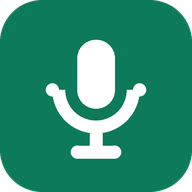
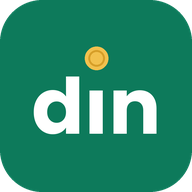
Add files via upload

Changed region(s): [[0.1562, 0.1875, 0.8438, 0.8438]]

diff --git a/index.html b/index.html
@@ -3,8 +3,8 @@
 <head>
 <meta charset="utf-8">
 <meta name="viewport" content="width=device-width,initial-scale=1,viewport-fit=cover">
-<title>Caderneta</title>
-<meta name="description" content="Controle de gastos com lançamento por voz.">
+<title>Din</title>
+<meta name="description" content="Din: controle de gastos com lançamento por voz.">
 <meta name="theme-color" content="#F5F6F4" media="(prefers-color-scheme: light)">
 <meta name="theme-color" content="#0C0F0D" media="(prefers-color-scheme: dark)">
 <link rel="manifest" href="manifest.json">
@@ -1347,7 +1347,7 @@ function renderAjustes(){
     <label class="field"><span class="label">Tipo de renda</span><select id="modoSel"><option value="">Descobrir sozinho</option><option value="fixo" ${C.modo==="fixo"?"selected":""}>Salário fixo</option><option value="dia" ${C.modo==="dia"?"selected":""}>Ganho por dia (Uber, entregas, bicos)</option><option value="ambos" ${C.modo==="ambos"?"selected":""}>Os dois</option></select></label>
     <label class="field"><span class="label">Dias de trabalho por semana (para a meta diária)</span><select id="diasSemana">${[3,4,5,6,7].map(n=>`<option value="${n}" ${+C.diasSemana===n?"selected":""}>${n} dias</option>`).join("")}</select></label></div>`;
   h+=`<div class="sec">Dados</div><div class="set"><div class="sw"><div><h3>Apagar todos os dados</h3><p class="hint">Remove lançamentos, cartões, contas e metas${store.kind==="db"?" da sua conta":" deste aparelho"}. Salve uma cópia antes.</p></div><button class="btn small ghost danger" id="apagarTudo">Apagar</button></div></div>
-    <p class="hint" style="text-align:center">Caderneta ${VERSAO_APP}${APP?` · <a href="privacidade.html" style="color:inherit">Política de privacidade</a>`:""}</p>`;
+    <p class="hint" style="text-align:center">Din ${VERSAO_APP}${APP?` · <a href="privacidade.html" style="color:inherit">Política de privacidade</a>`:""}</p>`;
   $("#p-ajustes").innerHTML=h;
 }
 function catForm(c){ const n=!c; c=c||{}; const cores=CORES_X; return `<form class="add-form" id="catForm" data-id="${esc(c.id||"")}" style="padding:0"><div class="fields">
@@ -1422,7 +1422,7 @@ function lerOnb(){
 function drawOnb(){
   const o=ui.onb, steps=`<div class="steps">${[1,2,3].map(i=>`<i class="${i<=o.step?"on":""}"></i>`).join("")}</div>`;
   let h="";
-  if(o.step===1) h=`${steps}<h2>Bem-vindo à Caderneta</h2><p class="hint">Três perguntas rápidas para o app já começar organizado. Dá para mudar tudo depois.</p>
+  if(o.step===1) h=`${steps}<h2>Bem-vindo ao Din</h2><p class="hint">Três perguntas rápidas para o app já começar organizado. Dá para mudar tudo depois.</p>
     <b>Como você ganha seu dinheiro?</b>
     ${[["fixo","Salário fixo","Recebo um valor todo mês"],["dia","Ganho por dia","Uber, 99, entregas, vendas, bicos"],["ambos","Os dois","Tenho salário e faço extras"]].map(([k,t,s])=>`<button class="opt" data-obmodo="${k}" aria-pressed="${o.modo===k}"><strong>${t}</strong><span>${s}</span></button>`).join("")}
     ${o.modo==="fixo"||o.modo==="ambos"?`<label class="field"><span class="label">Quanto você recebe por mês? (R$)</span><input id="obSal" inputmode="decimal" placeholder="3.000,00" value="${esc(o.salario)}"></label>`:""}
@@ -1498,22 +1498,22 @@ async function baixar(nome,data,tipo){
   else { try{ const url=URL.createObjectURL(new Blob([data],{type:tipo})); const a=document.createElement("a"); a.href=url; a.download=nome; document.body.appendChild(a); a.click(); a.remove(); setTimeout(()=>URL.revokeObjectURL(url),4000); return true; }catch(_){} }
   try{ await navigator.clipboard.writeText(data.replace(/^/,"")); toast("Não deu para baixar aqui, então copiei o conteúdo."); return true; }catch(_){ toast("Não foi possível salvar aqui."); return false; }
 }
-const backupJSON=()=>JSON.stringify({app:"caderneta",formato:1,versao:VERSAO_APP,exportado:new Date().toISOString(),config:cfg(),gastos:state.gastos});
-const backupNome=()=>`caderneta-copia-${hojeISO()}.json`;
+const backupJSON=()=>JSON.stringify({app:"din",formato:1,versao:VERSAO_APP,exportado:new Date().toISOString(),config:cfg(),gastos:state.gastos});
+const backupNome=()=>`din-copia-${hojeISO()}.json`;
 async function salvarBackup(){ if(await baixar(backupNome(),backupJSON(),"application/json")){ try{localStorage.setItem("caderneta-ultimo-backup",hojeISO())}catch(_){} toast("Cópia salva"); render(); } }
 async function enviarBackup(){
-  try{ const f=new File([backupJSON()],backupNome(),{type:"application/json"}); if(navigator.canShare&&navigator.canShare({files:[f]})){ await navigator.share({files:[f],title:"Cópia da Caderneta"}); try{localStorage.setItem("caderneta-ultimo-backup",hojeISO())}catch(_){} render(); return; } }catch(e){ if(e&&e.name==="AbortError") return; }
+  try{ const f=new File([backupJSON()],backupNome(),{type:"application/json"}); if(navigator.canShare&&navigator.canShare({files:[f]})){ await navigator.share({files:[f],title:"Cópia do Din"}); try{localStorage.setItem("caderneta-ultimo-backup",hojeISO())}catch(_){} render(); return; } }catch(e){ if(e&&e.name==="AbortError") return; }
   salvarBackup();
 }
 function lerArquivoBackup(file){
   const fr=new FileReader();
   fr.onload=()=>{ try{
       const d=JSON.parse(String(fr.result||""));
-      if(!d||d.app!=="caderneta"||typeof d.config!=="object"||!Array.isArray(d.gastos)) throw 0;
+      if(!d||!["din","caderneta"].includes(d.app)||typeof d.config!=="object"||!Array.isArray(d.gastos)) throw 0;
       const gastos=d.gastos.filter(g=>g&&typeof g==="object"&&typeof g.id==="string"&&g.id&&typeof g.data==="string");
       ui.restore={config:d.config||{},gastos,quando:d.exportado?new Date(d.exportado).toLocaleDateString("pt-BR"):"data desconhecida"};
       tab="ajustes"; render();
-    }catch(_){ toast("Esse arquivo não é uma cópia da Caderneta."); } };
+    }catch(_){ toast("Esse arquivo não é uma cópia do Din."); } };
   fr.onerror=()=>toast("Não deu para abrir o arquivo.");
   fr.readAsText(file);
 }
@@ -1531,7 +1531,7 @@ function csv(itens){
 async function exportar(modo){
   const itens=modo==="mes"?doMes(curKey()):ITENS.slice();
   if(!itens.length){ toast("Nada para exportar"); return; }
-  if(await baixar(modo==="mes"?`caderneta-${curKey()}.csv`:"caderneta-completa.csv",csv(itens),"text/csv;charset=utf-8")) toast("Planilha pronta");
+  if(await baixar(modo==="mes"?`din-${curKey()}.csv`:"din-completo.csv",csv(itens),"text/csv;charset=utf-8")) toast("Planilha pronta");
 }
 
 /* ============ eventos ============ */

diff --git a/privacidade.html b/privacidade.html
@@ -1,11 +1,11 @@
 <!doctype html>
 <html lang="pt-BR"><head><meta charset="utf-8"><meta name="viewport" content="width=device-width,initial-scale=1">
-<title>Política de privacidade · Caderneta</title>
+<title>Política de privacidade · Din</title>
 <style>body{font-family:system-ui,-apple-system,"Segoe UI",Roboto,sans-serif;max-width:680px;margin:0 auto;padding:32px 18px 64px;line-height:1.6;color:#101512;background:#F5F6F4}h1{font-size:26px;margin:0 0 4px}h2{font-size:18px;margin:28px 0 6px}p,li{font-size:16px}.muted{color:#6A746E}@media(prefers-color-scheme:dark){body{background:#0C0F0D;color:#EDF1EE}.muted{color:#8D9892}}</style></head>
 <body>
 <h1>Política de privacidade</h1>
-<p class="muted">Caderneta · última atualização: [DATA]</p>
-<p>A Caderneta é um aplicativo para anotar gastos e ganhos pessoais. Esta política explica o que acontece com as informações que você coloca nele.</p>
+<p class="muted">Din · última atualização: 10/11/2026</p>
+<p>O Din é um aplicativo para anotar gastos e ganhos pessoais. Esta política explica o que acontece com as informações que você coloca nele.</p>
 <h2>Onde ficam seus dados</h2>
 <p>Tudo o que você lança (gastos, ganhos, cartões, contas, metas) fica salvo <b>somente no seu celular</b>. O aplicativo não tem servidor, não cria conta e não envia seus dados para ninguém, nem para o desenvolvedor.</p>
 <h2>Microfone</h2>

diff --git a/sw.js b/sw.js
@@ -1,6 +1,6 @@
 // Guarda o app no celular para abrir sem internet e avisa contas vencendo.
 // Troque a versão a cada atualização do app.
-const VERSAO = "caderneta-v2";
+const VERSAO = "din-v3";
 const AGENDA = "caderneta-agenda";
 const ARQUIVOS = ["./", "index.html", "manifest.json", "privacidade.html", "icons/icon-192.png", "icons/icon-512.png", "icons/maskable-512.png"];
 self.addEventListener("install", e => { e.waitUntil(caches.open(VERSAO).then(c => c.addAll(ARQUIVOS)).then(() => self.skipWaiting())); });
@@ -26,7 +26,7 @@ async function verificarContas() {
     if (dias < 0 || dias > 2) continue;
     const chave = a.id + "@" + h; if (avisados[chave]) continue;
     const quando = dias === 0 ? "vence hoje" : dias === 1 ? "vence amanhã" : "vence em 2 dias";
-    await self.registration.showNotification(a.titulo + " " + quando, { body: "R$ " + brl(a.valor) + " · toque para abrir a Caderneta", icon: "icons/icon-192.png", badge: "icons/icon-192.png", tag: a.id });
+    await self.registration.showNotification(a.titulo + " " + quando, { body: "R$ " + brl(a.valor) + " · toque para abrir o Din", icon: "icons/icon-192.png", badge: "icons/icon-192.png", tag: a.id });
     avisados[chave] = 1;
   }
   for (const k of Object.keys(avisados)) if (k.split("@")[1] < iso(new Date(Date.now() - 7 * 864e5))) delete avisados[k];
